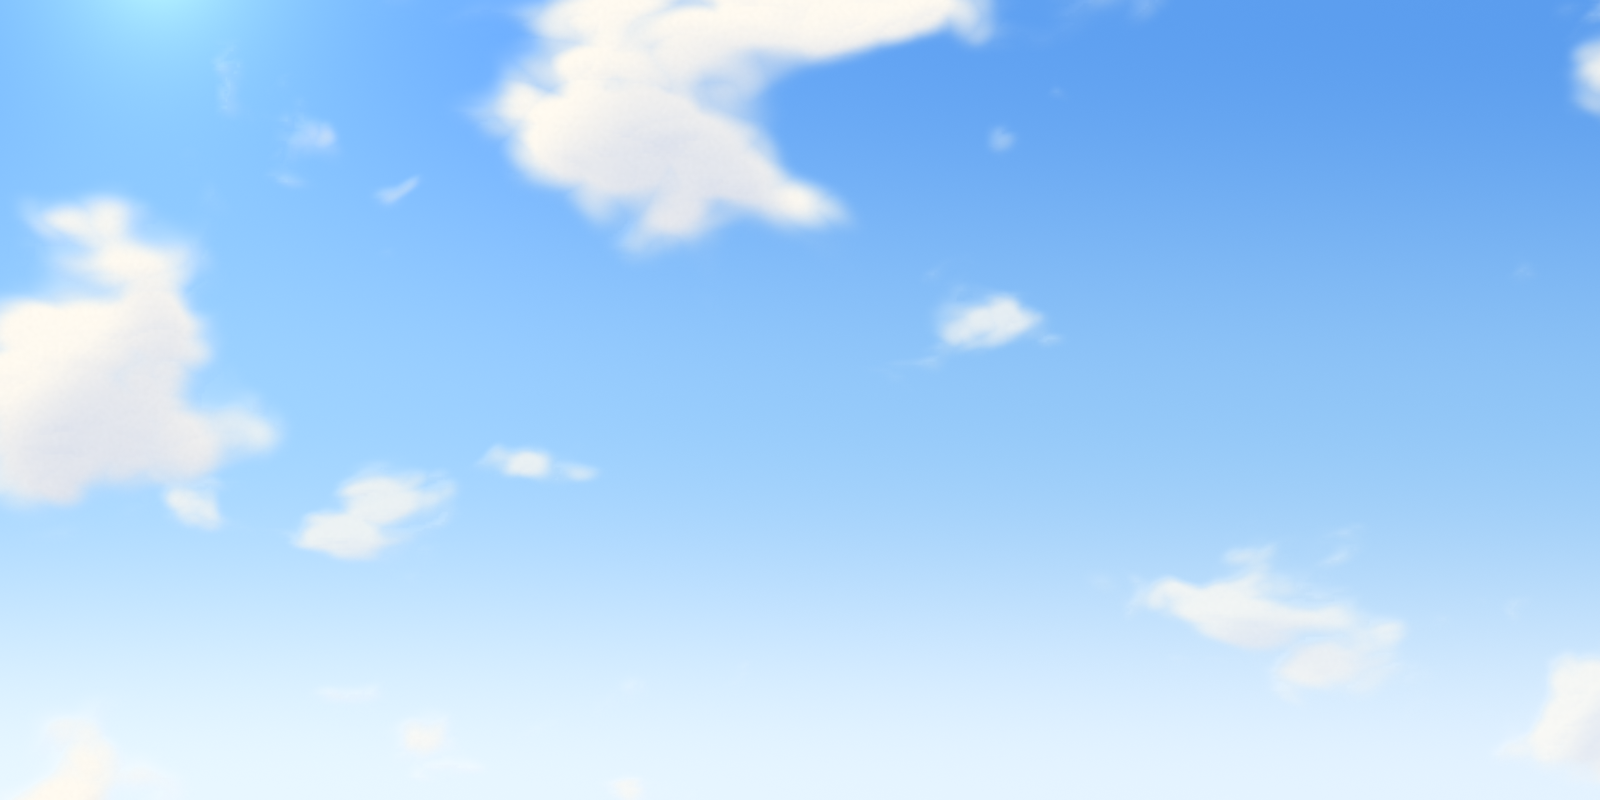
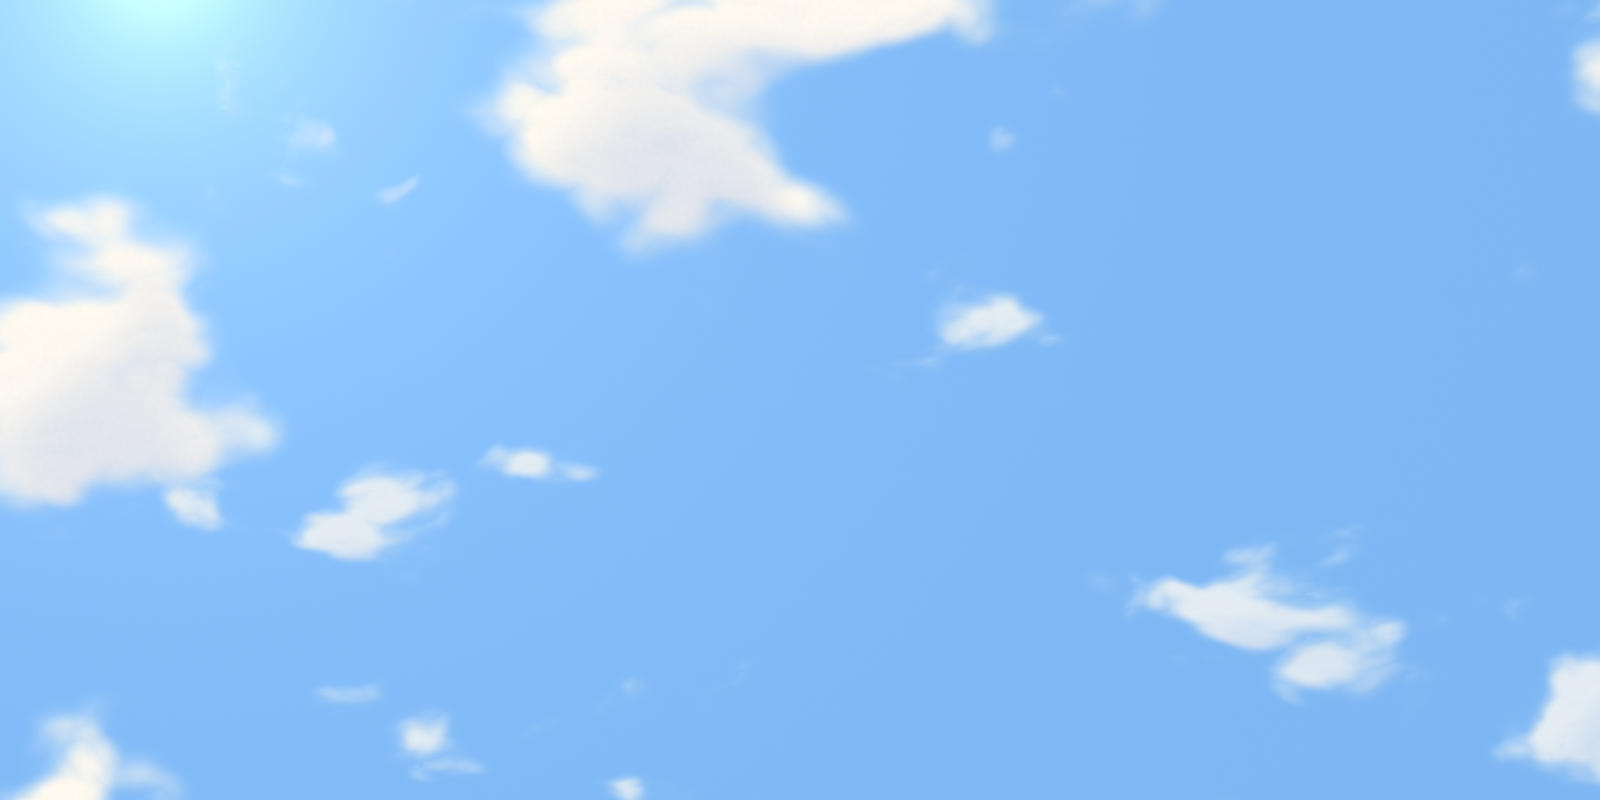
Even blue sky by default: new gradient option (0 = even, 1 = fade to pale horizon) in web and Swift; parity re-checked

diff --git a/web/src/sky.js b/web/src/sky.js
@@ -30,6 +30,7 @@ export const SKY_DEFAULTS = {
   seed: 0,               // any number: a different sky
   palette: 'day',        // 'day' | 'summer' | 'pastel'; skyTop/skyMid/skyLow override it
   skyTop: null, skyMid: null, skyLow: null,
+  gradient: 0,           // 0 = even blue sky, 1 = deep blue fading to a pale horizon
   quality: 'high',       // 'high' | 'balanced' | 'low' — resolution of the cloud snapshots
   fps: 60,               // frame cap
   interactive: false,    // pointer movement gently pushes the clouds, which then settle back
@@ -38,7 +39,7 @@ export const SKY_DEFAULTS = {
   respectReducedMotion: true,
 };
 
-const REBUILD_KEYS = ['coverage', 'shadow', 'seed', 'direction', 'palette', 'skyTop', 'skyMid', 'skyLow'];
+const REBUILD_KEYS = ['coverage', 'shadow', 'seed', 'direction', 'palette', 'skyTop', 'skyMid', 'skyLow', 'gradient'];
 const RESETUP_KEYS = ['cloudScale', 'quality'];
 const QUALITY = { high: 1.25, balanced: 1.0, low: 0.75 };   // snapshot pixels per CSS pixel
 const DT = 2.0;            // seconds of sky time between snapshots
@@ -66,10 +67,12 @@ void main(){ gl_Position = vec4(a, 0.0, 1.0); }`;
 const COMMON = `
 const mat2 ROT = mat2(0.8, -0.6, 0.6, 0.8);
 uniform vec3 uSkyTop, uSkyMid, uSkyLow;
+uniform float uGradient;      // 0 = even blue, 1 = deep blue fading to a pale horizon
 float hash12(vec2 p){ vec3 p3 = fract(vec3(p.xyx) * 0.1031); p3 += dot(p3, p3.yzx + 33.33); return fract((p3.x + p3.y) * p3.z); }
 vec3 skyAt(float v){          // v: 0 = bottom of view, 1 = top
   vec3 c = mix(uSkyLow, uSkyMid, smoothstep(0.0, 0.5, v));
-  return mix(c, uSkyTop, smoothstep(0.4, 1.0, v));
+  c = mix(c, uSkyTop, smoothstep(0.4, 1.0, v));
+  return mix(mix(uSkyMid, uSkyTop, 0.4), c, uGradient);
 }`;
 
 const CLOUD_FS = `#version 300 es
@@ -368,7 +371,11 @@ export function createSky(container, options = {}) {
   const freeSnap = s => { gl.deleteTexture(s.tex); gl.deleteFramebuffer(s.fb); };
   const layerSeed = L => [L.seed[0] + S.seed * 7.31, L.seed[1] + S.seed * 3.17];
   function place(L, snap, time) { snap.time = time; snap.x0 = dir() * L.speed * time - MARGIN; }
-  function setSkyUniforms(u) { const [t, m, l] = colors(); gl.uniform3fv(u.uSkyTop, t); gl.uniform3fv(u.uSkyMid, m); gl.uniform3fv(u.uSkyLow, l); }
+  function setSkyUniforms(u) {
+    const [t, m, l] = colors();
+    gl.uniform3fv(u.uSkyTop, t); gl.uniform3fv(u.uSkyMid, m); gl.uniform3fv(u.uSkyLow, l);
+    gl.uniform1f(u.uGradient, Math.min(1, Math.max(0, +S.gradient || 0)));
+  }
   function shapeAmt(t) {
     if (!shape) return 0;
     const a = t - shape.t0, { form, hold, fade } = shape;

diff --git a/swift/Sources/SkyKit/SkyOptions.swift b/swift/Sources/SkyKit/SkyOptions.swift
@@ -20,6 +20,8 @@ public struct SkyOptions: Equatable, Sendable {
     public var palette: Palette = .day
     /// Custom sky colours; override the palette when set.
     public var colors: SkyColors? = nil
+    /// 0 = even blue sky, 1 = deep blue fading to a pale horizon.
+    public var gradient: Double = 0
     /// Resolution of the cloud snapshots.
     public var quality: Quality = .high
     public var fps: Int = 60
@@ -34,10 +36,10 @@ public struct SkyOptions: Equatable, Sendable {
 
     public init(speed: Double = 1, coverage: Double = 0.6, shadow: Double = 0.3, cloudScale: Double = 1,
                 direction: Direction = .left, seed: Double = 0, palette: Palette = .day, colors: SkyColors? = nil,
-                quality: Quality = .high, fps: Int = 60, interactive: Bool = false, planes: Bool = false,
+                gradient: Double = 0, quality: Quality = .high, fps: Int = 60, interactive: Bool = false, planes: Bool = false,
                 trailLife: Double = 40, respectReducedMotion: Bool = true) {
         self.speed = speed; self.coverage = coverage; self.shadow = shadow; self.cloudScale = cloudScale
-        self.direction = direction; self.seed = seed; self.palette = palette; self.colors = colors
+        self.direction = direction; self.seed = seed; self.palette = palette; self.colors = colors; self.gradient = gradient
         self.quality = quality; self.fps = fps; self.interactive = interactive; self.planes = planes
         self.trailLife = trailLife; self.respectReducedMotion = respectReducedMotion
     }

diff --git a/web/examples/playground.html b/web/examples/playground.html
@@ -31,6 +31,7 @@
   <div class="r"><label>Clouds</label><output id="o-coverage"></output><input id="coverage" type="range" min="0" max="1" step="0.01"></div>
   <div class="r"><label>Shadow</label><output id="o-shadow"></output><input id="shadow" type="range" min="0" max="1" step="0.01"></div>
   <div class="r"><label>Cloud size</label><output id="o-cloudScale"></output><input id="cloudScale" type="range" min="0.5" max="2" step="0.05"></div>
+  <div class="r"><label>Fade to pale horizon</label><output id="o-gradient"></output><input id="gradient" type="range" min="0" max="1" step="0.01"></div>
   <div class="r"><label>Palette</label><span></span><select id="palette"><option>day</option><option>summer</option><option>pastel</option></select></div>
   <label class="chk"><input type="checkbox" id="interactive" checked> Pointer pushes clouds</label>
   <label class="chk"><input type="checkbox" id="planes" checked> Planes fly by</label>
@@ -47,7 +48,7 @@ import { createSky } from '../src/sky.js';
 const sky = createSky(document.getElementById('sky'), { interactive: true, planes: true });
 window.sky = sky;
 
-for (const k of ['speed', 'coverage', 'shadow', 'cloudScale']) {
+for (const k of ['speed', 'coverage', 'shadow', 'cloudScale', 'gradient']) {
   const inp = document.getElementById(k), out = document.getElementById('o-' + k);
   inp.value = sky.options[k]; out.textContent = (+inp.value).toFixed(2);
   inp.addEventListener('input', () => { out.textContent = (+inp.value).toFixed(2); sky.set({ [k]: +inp.value }); });

diff --git a/swift/Sources/SkyKit/SkyRenderer.swift b/swift/Sources/SkyKit/SkyRenderer.swift
@@ -105,7 +105,8 @@ public final class SkyRenderer {
         if old.direction != options.direction { shape = nil; pendingShape = nil }   // a placed shape belongs to the old drift
         if old.cloudScale != options.cloudScale || old.quality != options.quality { needsSetup = true }
         else if old.coverage != options.coverage || old.shadow != options.shadow || old.seed != options.seed
-                    || old.direction != options.direction || old.palette != options.palette || old.colors != options.colors { needsRebuild = true }
+                    || old.direction != options.direction || old.palette != options.palette || old.colors != options.colors
+                    || old.gradient != options.gradient { needsRebuild = true }
     }
 
     /// Jump to a moment of sky time (the clouds are repainted for that moment on the next update).
@@ -144,7 +145,8 @@ public final class SkyRenderer {
 
     private func gpuColors() -> GPUColors {
         let c = options.resolvedColors
-        return GPUColors(top: SIMD4(c.top, 0), mid: SIMD4(c.mid, 0), low: SIMD4(c.low, 0))
+        let gradient = Float(min(1, max(0, options.gradient)))
+        return GPUColors(top: SIMD4(c.top, gradient), mid: SIMD4(c.mid, 0), low: SIMD4(c.low, 0))
     }
     private func shapeAmount(at t: Double) -> Double {
         guard let s = shape else { return 0 }

diff --git a/swift/Sources/SkyKit/Shaders.swift b/swift/Sources/SkyKit/Shaders.swift
@@ -51,10 +51,12 @@ static float billow(float2 p, int oct) {
     return s / n;
 }
 
+// top.w = gradient: 0 = even blue, 1 = deep blue fading to a pale horizon
 struct SkyColors { float4 top; float4 mid; float4 low; };
 static float3 skyAt(float v, constant SkyColors& c) {
     float3 col = mix(c.low.rgb, c.mid.rgb, smoothstep(0.0, 0.5, v));
-    return mix(col, c.top.rgb, smoothstep(0.4, 1.0, v));
+    col = mix(col, c.top.rgb, smoothstep(0.4, 1.0, v));
+    return mix(mix(c.mid.rgb, c.top.rgb, 0.4), col, c.top.w);
 }
 
 // a = (win0.x, win0.y, unitsPerPixel, viewH)   b = (morph, scale, coverage, shadow)

diff --git a/swift/Sources/sky-render/main.swift b/swift/Sources/sky-render/main.swift
@@ -26,6 +26,7 @@ while !args.isEmpty {
     case "--coverage": opts.coverage = Double(value()) ?? opts.coverage
     case "--shadow": opts.shadow = Double(value()) ?? opts.shadow
     case "--palette": opts.palette = SkyOptions.Palette(rawValue: value()) ?? .day
+    case "--gradient": opts.gradient = Double(value()) ?? 0
     case "--direction": opts.direction = value() == "right" ? .right : .left
     case "--text": shapeText = value()                 // start forming this text at time 0
     case "--plane": plane = true                        // a plane from (0, 0.7) to (1, 0.75) at time 0

diff --git a/web/src/sky.d.ts b/web/src/sky.d.ts
@@ -20,6 +20,8 @@ export interface SkyOptions {
   skyTop?: string | null;
   skyMid?: string | null;
   skyLow?: string | null;
+  /** 0 = even blue sky, 1 = deep blue fading to a pale horizon. Default 0. */
+  gradient?: number;
   /** Resolution of the cloud snapshots. Default 'high'. */
   quality?: Quality;
   /** Frame cap. Default 60. */

diff --git a/README.md b/README.md
@@ -55,6 +55,7 @@ Props are the options below; changing a prop updates the sky live, and removing 
 | `seed` | `0` | any number gives a different sky |
 | `palette` | `'day'` | `'day'`, `'summer'`, `'pastel'` |
 | `skyTop`, `skyMid`, `skyLow` | `null` | custom hex colours, override the palette |
+| `gradient` | `0` | 0 = even blue sky, 1 = deep blue fading to a pale horizon |
 | `quality` | `'high'` | `'high'`, `'balanced'`, `'low'` (snapshot resolution) |
 | `fps` | `60` | frame cap |
 | `interactive` | `false` | pointer movement pushes clouds, which settle back |
@@ -96,7 +97,7 @@ struct ContentView: View {
 }
 ```
 
-`SkyOptions` has the same names and defaults as the web options (`speed`, `coverage`, `shadow`, `cloudScale`, `direction`, `seed`, `palette`, `colors`, `quality`, `fps`, `interactive`, `planes`, `trailLife`, `respectReducedMotion`). Changing the value updates the sky live. `SkyController` sends planes (`flyPlane()`), forms shapes (`showShape(.text("hi"))` or `.image(cgImage)`) and renders stills (`snapshot(width:height:)`). With `interactive`, mouse hover (macOS, iPad pointer) or a finger drag pushes the clouds. The view stops drawing when nothing moves (speed 0 or Reduce Motion) and wakes up when something changes.
+`SkyOptions` has the same names and defaults as the web options (`speed`, `coverage`, `shadow`, `cloudScale`, `direction`, `seed`, `palette`, `colors`, `gradient`, `quality`, `fps`, `interactive`, `planes`, `trailLife`, `respectReducedMotion`). Changing the value updates the sky live. `SkyController` sends planes (`flyPlane()`), forms shapes (`showShape(.text("hi"))` or `.image(cgImage)`) and renders stills (`snapshot(width:height:)`). With `interactive`, mouse hover (macOS, iPad pointer) or a finger drag pushes the clouds. The view stops drawing when nothing moves (speed 0 or Reduce Motion) and wakes up when something changes.
 
 Also included:
 
@@ -112,7 +113,7 @@ The shaders exist twice: GLSL in `web/src/sky.js`, Metal in `swift/Sources/SkyKi
 cd swift && swift run sky-render --width 1600 --height 1000 --seconds 30 --out out/swift-30s.png
 ```
 
-then open `web/examples/parity.html` in a browser at device pixel ratio 2. It renders the same frame in WebGL and compares every pixel. Current result: mean difference 0.116/255, max 8/255, no pixels more than 8 apart.
+then open `web/examples/parity.html` in a browser at device pixel ratio 2. It renders the same frame in WebGL and compares every pixel. Current result: mean difference 0.125/255, max 9/255, no pixels more than 8 apart.
 
 With extras: `sky-render --seconds 10 --text hello --plane --out out/swift-extras.png` and `parity.html?text=hello&plane=1&seconds=10&png=../../swift/out/swift-extras.png`. Sky, plane and contrail match; the only differences are inside the letters, because the browser and CoreText draw the rounded font slightly differently.
 
